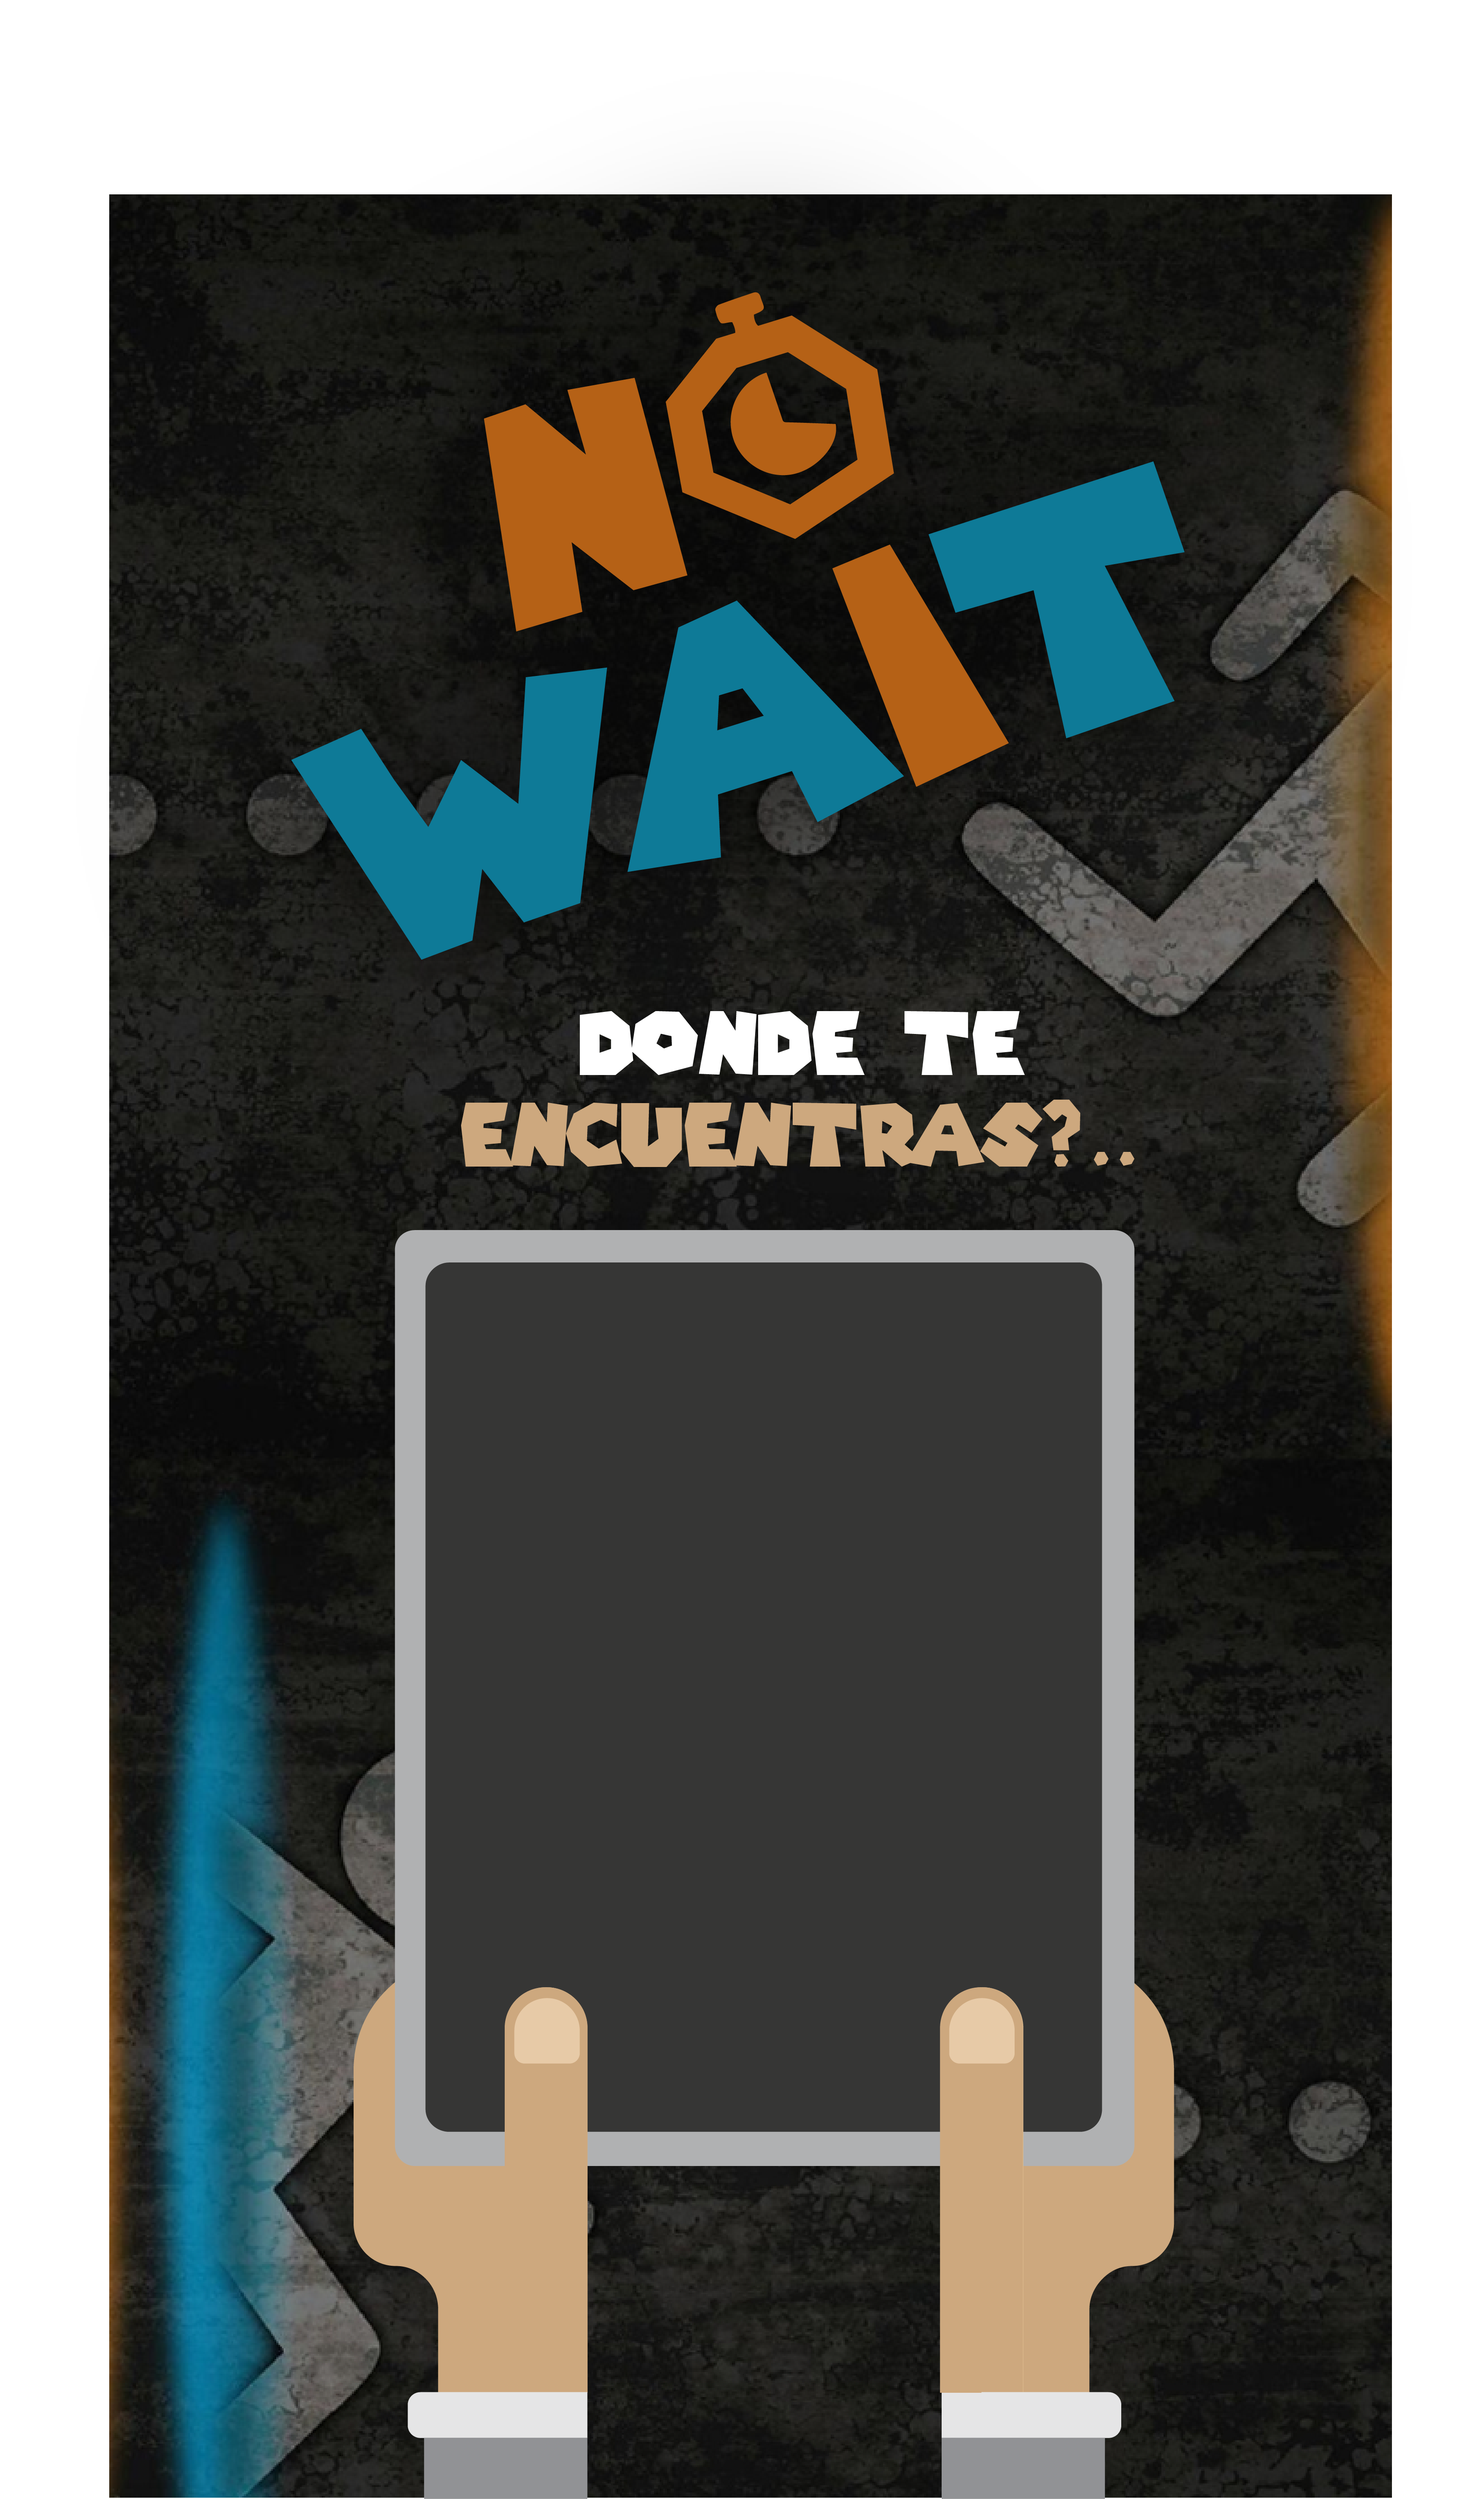
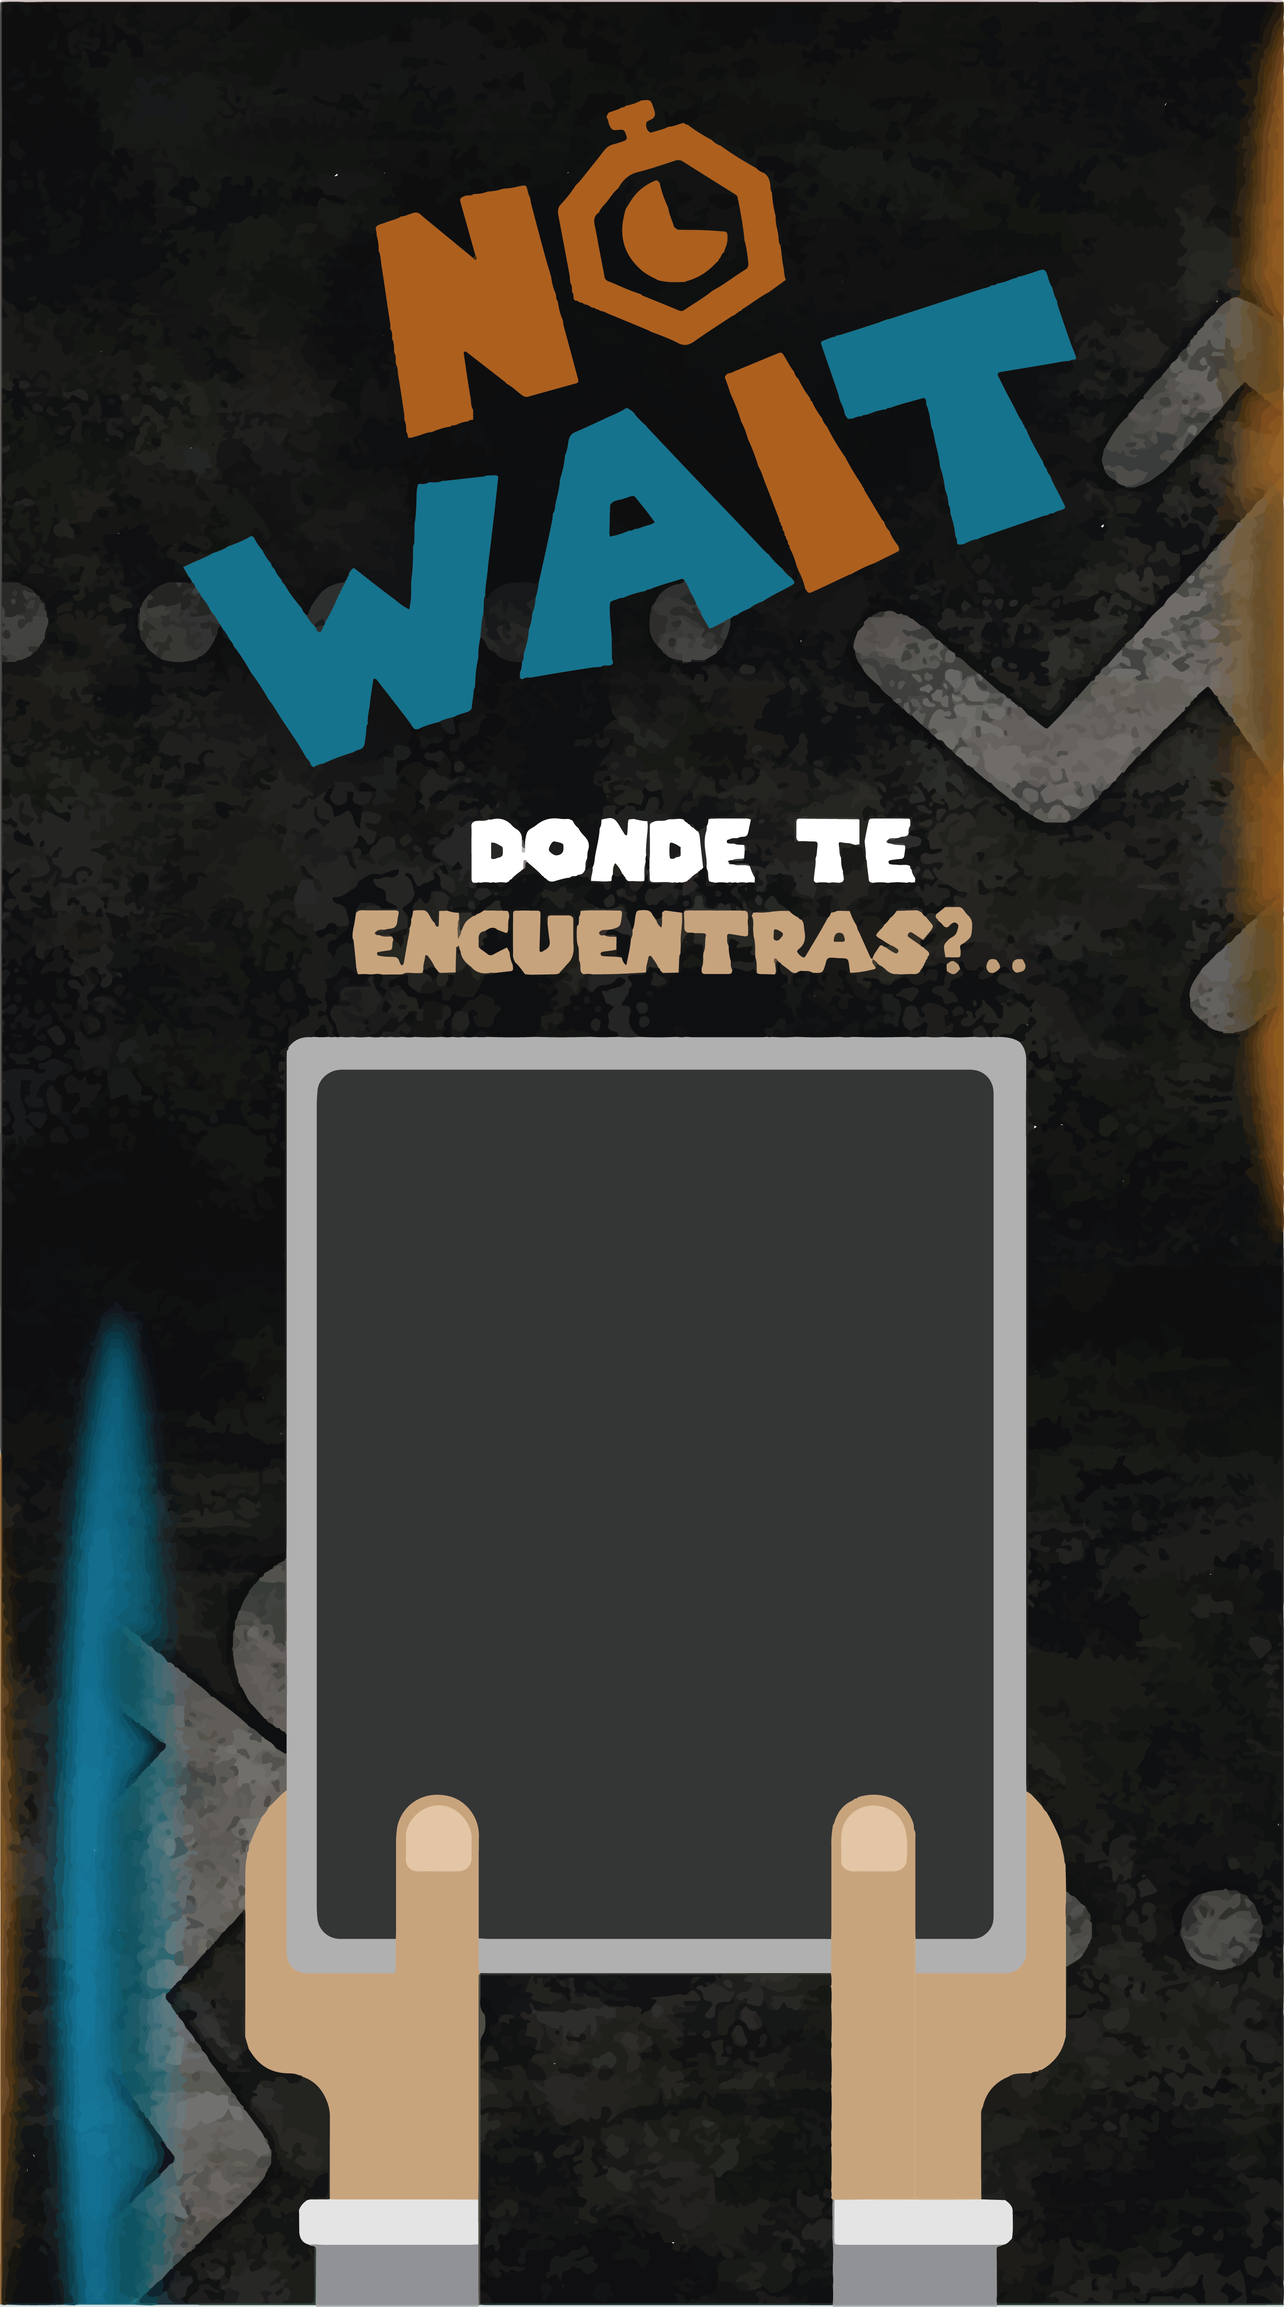
responsive

diff --git a/css/queries.css b/css/queries.css
@@ -6,6 +6,29 @@
 /* Landscape phones and down */
 
 @media (max-width: 480px) {
+	header {
+		background: url(../img/background_responsive.png) no-repeat center center;
+		padding: 20px 10px 60px 10px;
+		height: 100vh;
+		overflow: hidden;
+		background-size: cover;
+	}
+	.logo-uno {
+		display: none;
+	}
+	.donde {
+		display: none;
+	}
+	.juego1 {
+		display: none;
+	}
+	.metro-res {
+		display: block;
+		position: absolute;
+		bottom: 14em;
+		left: 7.2em;
+		max-width: 48%;
+	}
 	.btn-lg {
 		font-size: 12.5px;
 		line-height: 1.33;

diff --git a/index.html b/index.html
@@ -20,6 +20,9 @@
 <body>
 	<header class="principal">
 		<div class="container">
+		<a href="metropolitano.html">
+			<img class="metro-res" src="img/juego_uno.png">
+		</a>
 			<a href="metropolitano.html"><div class="juego1 pull-right"></div></a>
 			<div class="pull-left" data-wow-delay="1s">  
 				<img class="logo-uno" src="img/logo_no_wait_uno.png">

diff --git a/css/main.css b/css/main.css
@@ -139,7 +139,9 @@ p {
     overflow: hidden;
     background-size: cover;
 }
-
+.metro-res{
+    display: none;
+}
 .juego1 {
     background: url(../img/juego_uno.png) no-repeat center center;
     width: 239px;
